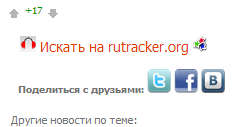
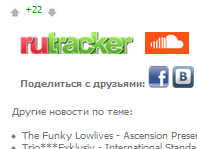
Переделана страница настроек
Правки стилей
Летит в маркет как 0.8.5

diff --git a/options.html b/options.html
@@ -14,27 +14,35 @@
     </header>
     <section>
         <fieldset>
-            <legend><img src="i/rutracker_16x16.ico">Поиск на rutracker.org</legend>
-            <i>Расширение может встраивать на страницы xorosho.com ссылки для поиска релиза на rutracker.org (вход на
+            <legend>Поиск</legend>
+            <h4><img src="i/rutracker_16x16.ico"><b>rutracker.org</b></h4>
+
+            <p><i>Расширение может встраивать на страницы xorosho.com ссылки для поиска релиза на rutracker.org (вход на
                 rutracker должен быть выполнен)<br>
-                Работает только для релизов в категориях "хорошая музыка" и "хорошее кино". <br><br>
-                Корректная работа поиска зависит от соответсвия заголовка новости опрделенному шаблону. Для большинства
-                новостей все будет работать. В крайнем случае, можно будет откорректировать поисковый запрос уже на
-                самом rutracker.</i><br><br>
+                Работает только для релизов в категориях "хорошая музыка" и "хорошее кино".</i></p>
+
             <label><input type="checkbox" id="opt_top_search_btn"> Отображать ссылку в титульной строке
                 новости</label><br>
-            <img src="i/top_scr.jpg"><br>
+            <label><input type="checkbox" id="opt_bottom_search_btn"> Отображать ссылку в конце новости</label>
             <hr>
-            <label><input type="checkbox" id="opt_bottom_search_btn"> Отображать ссылку в конце новости</label><br>
-            <img src="i/bottom_src.jpg">
-        </fieldset>
+            <!--soundcloud-->
+            <h4><img src="i/soundcloud.png"><b>soundcloud.com <i class="red">(NEW)</i></b></h4>
 
-        <fieldset>
-            <legend><img src="i/soundcloud.png">Поиск исполнителя на soundcloud.com <i>(NEW)</i></legend>
-            <i>Расширение может попытаться найти исполнителя на soundcloud.com. Только для категории "Хорошая музыка". </i><br><br>
+            <p><i>Расширение может попытаться найти исполнителя на soundcloud.com. Только для категории "Хорошая
+                музыка". </i></p>
             <label><input type="checkbox" id="opt_top_soundcloud_btn"> Отображать ссылку на поиск в титульной строке
                 новости</label><br>
             <label><input type="checkbox" id="opt_bottom_soundcloud_btn"> Отображать ссылку в конце новости</label>
+            <hr>
+            <p><img src="i/information.png">Информация</p>
+
+            <p><i>Корректная работа поиска зависит от соответсвия заголовка новости опрделенному шаблону. Для большинства
+                новостей все будет работать. В крайнем случае, можно будет откорректировать поисковый запрос уже на
+                самом сайте.</i></p>
+            Так это будет выглядеть:
+            <br>
+                <img src="i/top_scr.jpg" class="screens" style="margin-right: 20px;">
+                <img src="i/bottom_src.jpg" class="screens">
         </fieldset>
 
         <fieldset>

diff --git a/js/inject.js b/js/inject.js
@@ -1,5 +1,6 @@
 /*global localStorage: false, console: false, $: false, Audio: false, chrome: false, window: false, document: false */
-function extXorosho(settings) {
+//согласно манифесту включается только в категориях музыка и кино
+chrome.extension.sendMessage('tell_me_settings', function (settings) {
     var query_strings = {   //строки для поисковых запросов
             before_slash: false,
             artist: false
@@ -26,10 +27,10 @@ function extXorosho(settings) {
                 query_string_type: 'artist'
             }
         },
-        ext_ico = chrome.extension.getURL("../i/ico/icon_19.png"),
+    //тип релиза или вообще не релиз (если корень категории)
         current_page_type = (function () {
             var page_url = document.location.href;
-            //убеждаюсь, что это релизы, а не корень категорий
+            //что это релизы, а не корень категорий
             if (page_url.search(/xoroshaya_muzika\/[\s\S]/) !== -1) {
                 return 'music';
             }
@@ -40,9 +41,11 @@ function extXorosho(settings) {
         }());
 
     function findQueryStrings() {
-        //принимаем, что все заголовки новости создаются по шаблону Артист - Альбом (год) / жанры
         var news_title = $('h1:eq(0)').text();
+        //принимаю, что все заголовки новости создаются по шаблону Артист - Альбом (год) / жанры
+        //фильмы - после первого слеша либо оригинальное название, либо жанры, тоже ОК
         if (typeof news_title === 'string') {
+            //строка до слеша
             query_strings.before_slash = (function () {
                 var str = news_title.slice(0, news_title.indexOf('/'));
                 if (str.length >= 4) {
@@ -50,6 +53,7 @@ function extXorosho(settings) {
                 }
                 return false;
             }());
+            //артист - до первого " - " в заголовке новости
             query_strings.artist = (function () {
                 var artist_end = news_title.indexOf(' - '),
                     str;
@@ -73,6 +77,7 @@ function extXorosho(settings) {
             findQueryStrings();
             for (engine in search_engines) {
                 if (search_engines.hasOwnProperty(engine)) {
+                    //строка для поискового запроса в зависимости от нужного для конкретного поискового движка
                     query_str = query_strings[search_engines[engine].query_string_type];
                     if (query_str) {
                         if (search_engines[engine].top_btn === 'on') {
@@ -96,8 +101,4 @@ function extXorosho(settings) {
     }
 
     go();
-}
-
-chrome.extension.sendMessage('tell_me_settings', function (resp) {
-    extXorosho(resp);
 });

diff --git a/css/options.css b/css/options.css
@@ -17,30 +17,36 @@ header {
 header img {
     float: left;
 }
+p {
+    margin: 5px;
+}
 h1 {
-    margin-top: 0px;
+    margin-top: 0;
     color: #666666;
+}
+h4 {
+    margin: 12px 0;
+}
+h4 img {
+    margin: 0 3px -3px;
 }
 hr {
     border: none;
     background-color: #e5e5e5;
     height: 1px;
+    margin: 10px 0;
 }
 fieldset {
     border: 1px solid #e5e5e5;
     margin-top: 20px;
     border-radius: 3px;
 }
-fieldset img {
-    margin: 10px 0 10px 70px;
-    border: 1px solid #d3d3d3;
-}
-legend img {
-    margin: 0 3px -2px;
-    border: none;
-}
-legend i {
+.red {
     color: red;
+}
+.screens {
+    vertical-align: top;
+    margin-left: 12px;
 }
 i {
     color: #333333;

diff --git a/popup.html b/popup.html
@@ -3,8 +3,6 @@
 <head>
     <meta charset="utf-8">
     <link rel="stylesheet" href="css/popup.css">
-    <script type="text/javascript" src="js/lib/jquery-1.8.2.min.js"></script>
-    <script type="text/javascript" src="js/popup.js"></script>
 </head>
 <body>
 <header>
@@ -30,5 +28,7 @@
 </section>
 <section id="news">
 </section>
+<script type="text/javascript" src="js/lib/jquery-1.8.2.min.js"></script>
+<script type="text/javascript" src="js/popup.js"></script>
 </body>
 </html>
